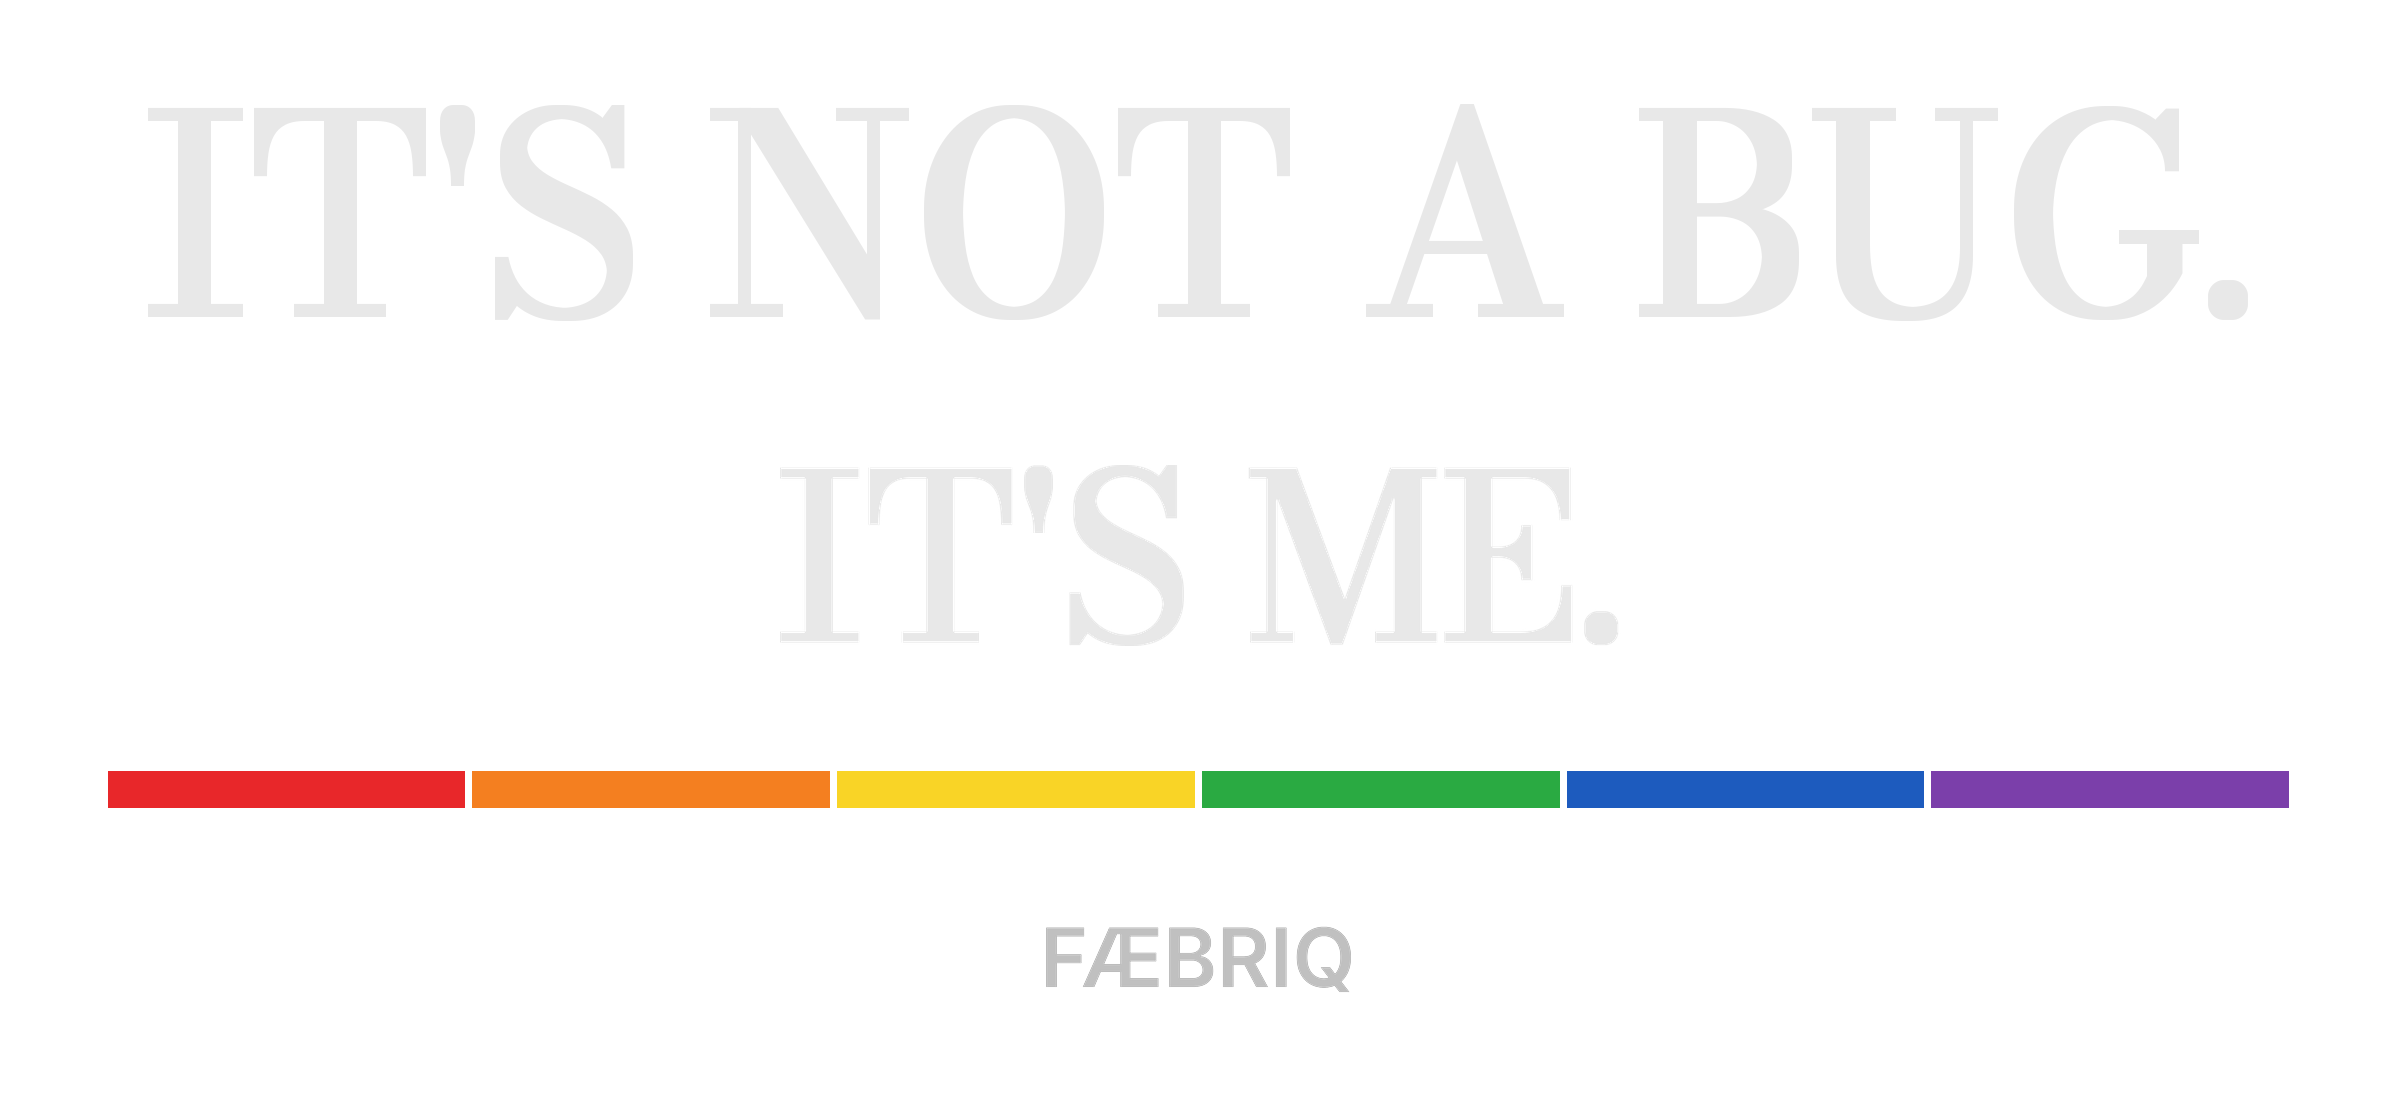
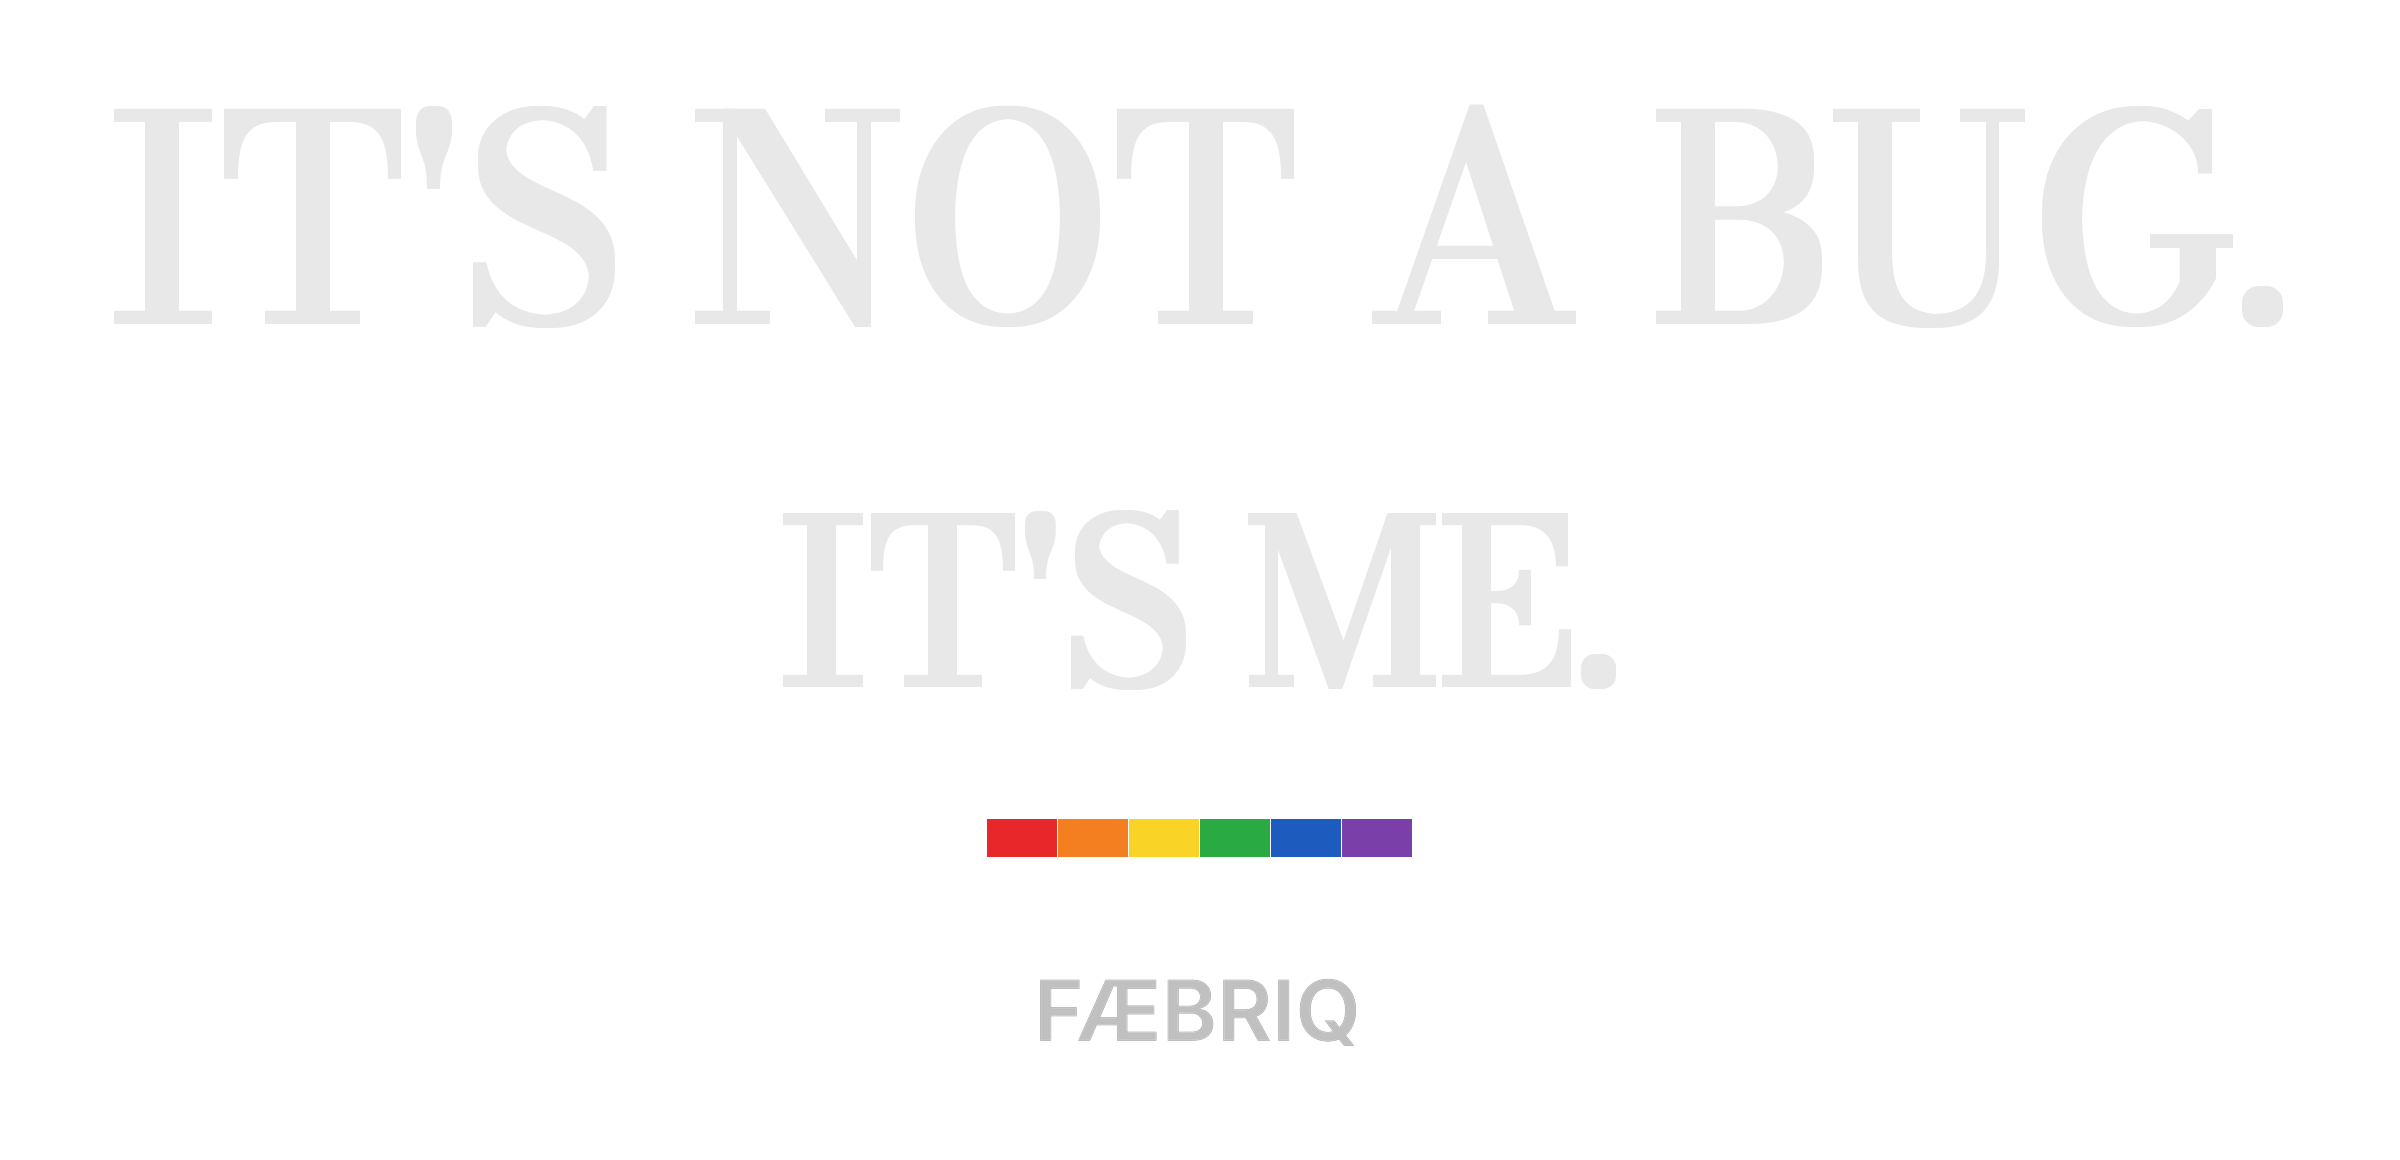
Fix line1/line2 size ratio and bar-to-wordmark ratio in print files (#30)
Claude-Session: https://claude.ai/code/session_01UySxquBWg9zCWn2arkbHkN

Changed region(s): [[0.0312, 0.6757, 0.9688, 0.7371], [0.4375, 0.8293, 0.5625, 0.9214]]

diff --git a/tools/make_print_file.py b/tools/make_print_file.py
@@ -120,22 +120,39 @@ def _draw_reinforced(canvas, cx, y, text, font, fill):
     canvas.alpha_composite(layer, (int(round(cx - w / 2)), int(round(y - pad))))
 
 
-# Gaps between line1->line2 and line2->bar, measured off the approved 404
-# reference ("STRAIGHT NOT" / "FOUND") as a multiple of the PRECEDING line's
-# own fitted font size — not a fixed fraction of canvas width like the old
-# l1_y/l2_y/bar_y constants were. A fixed-fraction gap looks wildly different
-# depending on word count, since _fit shrinks or grows the font to hit a
-# target width: "CODE IT." renders much bigger than "OFF THE CLOCK." at the
-# same width fraction, so the same absolute gap reads as cramped on one and
-# oversized on the other. Scaling the gap by the actual rendered font size
-# keeps the visual rhythm constant across every tagline automatically —
-# derived once from make_print_file.py's own font-fit output, not eyeballed.
+# Gap between line1->line2, measured off the approved 404 reference
+# ("STRAIGHT NOT" / "FOUND") as a multiple of line1's own fitted font size,
+# not a fixed fraction of canvas width like the old l1_y/l2_y constants were.
+# A fixed-fraction gap looks wildly different depending on word count, since
+# _fit shrinks or grows the font to hit a target width. Scaling the gap by
+# the actual rendered font size keeps the visual rhythm constant across every
+# tagline automatically.
 GAP_L1_L2_OF_L1_SIZE = 1.4668
 GAP_L2_BAR_OF_L2_SIZE = 1.3758
 
+# Line hierarchy (Maurice, 2026-09-25): line1 (the statement) sits at 100%,
+# line2 (the footnote/punchline) at 75-85% of line1's rendered size. This
+# replaced the old l2_w width-fit target, which sized line2 by matching a
+# fixed fraction of canvas width: for a short line2 against a long line1
+# ("IT'S NOT A BUG." / "IT'S ME.") that produced almost no visible size
+# difference (line2 landed within a few percent of line1), the opposite of
+# the intended big-statement/small-punchline hierarchy. Sizing line2 as a
+# direct fraction of line1's own fitted size is exact and word-count-proof.
+LINE2_RATIO_DEFAULT = 0.80
+
+# Bar-to-wordmark ratio (Maurice, 2026-09-23 and reconfirmed 2026-09-25): the
+# six-block bar is always 1.35x the width of the FÆBRIQ wordmark it sits with,
+# on stickers and caps, where the wordmark actually prints. This replaces
+# the old bar_w=1.0326 (a fraction of the PHRASE width), which made the bar
+# roughly 7x wider than the tiny signature mark underneath it: visually two
+# unrelated elements, not "a wordmark with its bar". Apparel prints carry no
+# wordmark at all (see module docstring), so they keep the phrase-width bar
+# unchanged, there is nothing for their bar to be 1.35x of.
+BAR_TO_MARK_RATIO = 1.35
+
 
 def build(line1, line2, out, label=None, width=4500, margin_frac=0.045,
-          ink="light", product="apparel", l2_y=None, l2_w=None):
+          ink="light", product="apparel", l2_y=None, l2_ratio=None):
     from PIL import Image, ImageFont
 
     serif = font_path("Bodoni Moda", None, "BodoniModa-Regular.ttf")
@@ -143,21 +160,20 @@ def build(line1, line2, out, label=None, width=4500, margin_frac=0.045,
     col = {k: tuple(int(v.lstrip("#")[i:i + 2], 16) for i in (0, 2, 4)) for k, v in ink_hex.items()}
     wordmark = product == "sticker"
     src = dict(SRC)
-    # l2_w is a width-fit *target*, not a size ratio: fitting line2 to a fixed
-    # fraction of L only shrinks it relative to line1 by roughly
-    # (l2_w/l1_w)*(len(line1)/len(line2)). For phrase pairs where line2 has
-    # much less than half of line1's characters (e.g. "IT'S NOT A BUG." / 15
-    # chars vs "IT'S ME." / 8 — just over half), the default l2_w=0.4710 lands
-    # line2's font size within a few percent of line1's: no visible hierarchy,
-    # even though the tagline is a big-statement/small-punchline pair. --l2-w
-    # overrides the target for that one call; every other design keeps 0.4710.
-    if l2_w is not None:
-        src["l2_w"] = l2_w
+    l2_ratio = LINE2_RATIO_DEFAULT if l2_ratio is None else l2_ratio
 
-    # The bar is the widest element, so it sets the usable width.
-    L = width * (1 - 2 * margin_frac) / src["bar_w"]
+    # Line1 (and, for apparel, the bar right under it) sets the usable width.
+    # Stickers size off line1 too now that the bar no longer follows the
+    # phrase width -- see BAR_TO_MARK_RATIO above.
+    L = width * (1 - 2 * margin_frac) / (src["bar_w"] if not wordmark else src["l1_w"])
     f_l1 = _fit(ImageFont, serif, line1, src["l1_w"] * L, "w")
-    f_l2 = _fit(ImageFont, serif, line2, src["l2_w"] * L, "w")
+    f_l2 = ImageFont.truetype(serif, max(1, round(f_l1.size * l2_ratio)))
+    # A long line2 at the target ratio can render wider than the canvas (e.g.
+    # "I'M REBRANDING MY IDENTITY" at 80% of "PLEASE HOLD"'s size) -- the
+    # ratio is a target, not a licence to run off the print area, so fall
+    # back to width-fit (matching line1's own width target) only when needed.
+    if f_l2.getlength(line2) > src["l1_w"] * L:
+        f_l2 = _fit(ImageFont, serif, line2, src["l1_w"] * L, "w")
     # Label is fitted by cap height, not width, so it stays a consistent size
     # regardless of how long the label text is ("404" vs "ERROR 404").
     f_lab = _fit(ImageFont, serif, label, src["label_h"] * L, "h") if label else None
@@ -171,7 +187,14 @@ def build(line1, line2, out, label=None, width=4500, margin_frac=0.045,
     src["bar_y"] = src["l2_y"] + GAP_L2_BAR_OF_L2_SIZE * f_l2.size / L
     src["mark_y"] = src["bar_y"] + (SRC["mark_y"] - SRC["bar_y"])
 
-    bar_h = src["bar_h"] * src["bar_w"] * L
+    if wordmark:
+        mark_w_px = f_mark.getlength("FÆBRIQ")
+        bar_w = BAR_TO_MARK_RATIO * mark_w_px
+        bar_h = (SRC["bar_h"] * SRC["bar_w"]) * L  # same absolute thinness as the old phrase-width bar
+    else:
+        bar_w = src["bar_w"] * L
+        bar_h = src["bar_h"] * bar_w
+
     content_h = (src["mark_y"] * L + f_mark.getbbox("FÆBRIQ")[3] - f_mark.getbbox("FÆBRIQ")[1]
                  if wordmark else src["bar_y"] * L + bar_h)
     pad = width * margin_frac
@@ -188,12 +211,11 @@ def build(line1, line2, out, label=None, width=4500, margin_frac=0.045,
     line("l1_y", line1, f_l1, col["text"])
     line("l2_y", line2, f_l2, col["text"])
 
-    # pride-circuit bar: thin, near-continuous, marginally wider than the phrase.
-    # A solid rectangle at 300dpi is always far above MIN_STROKE_MM (~5.7mm
-    # tall even at this "thin" spec), so it needs no reinforcement pass.
+    # pride-circuit bar. A solid rectangle at 300dpi is always far above
+    # MIN_STROKE_MM (~5.7mm tall even at this "thin" spec), so it needs no
+    # reinforcement pass.
     from PIL import ImageDraw
     d = ImageDraw.Draw(im)
-    bar_w = src["bar_w"] * L
     sw, gap = src["stripe_frac"] * bar_w, src["gap_frac"] * bar_w
     bx, by = cx - bar_w / 2, top + src["bar_y"] * L
     for i, c in enumerate(CIRCUIT):
@@ -224,13 +246,12 @@ if __name__ == "__main__":
                         "By default this is computed automatically from line-1's rendered "
                         "font size so spacing self-adjusts per tagline — only pass this to "
                         "force a specific position.")
-    p.add_argument("--l2-w", type=float, default=None,
-                   help="manual override for line-2's width-fit target (fraction of L, "
-                        "default 0.4710). The resulting size ratio also depends on "
-                        "len(line1)/len(line2), so lower this when line2 has much less "
-                        "than half of line1's character count and the default produces "
-                        "little or no visible size difference.")
+    p.add_argument("--l2-ratio", type=float, default=None,
+                   help="manual override for line-2's size as a fraction of line-1's "
+                        "rendered size (default 0.80, i.e. within the 75-85%% house "
+                        "range). Exact and word-count-proof, unlike the old width-fit "
+                        "approach it replaced.")
     a = p.parse_args()
     w, h = build(a.line1, a.line2, a.out, label=a.label, width=a.width,
-                 ink=a.ink, product=a.product, l2_y=a.l2_y, l2_w=a.l2_w)
+                 ink=a.ink, product=a.product, l2_y=a.l2_y, l2_ratio=a.l2_ratio)
     print(f"wrote {a.out}  {w}x{h}  RGBA 300dpi  ink={a.ink}  product={a.product}")

diff --git a/tools/make_404_v3.py b/tools/make_404_v3.py
@@ -13,12 +13,20 @@ def build(out,width,sticker):
     y1=pad; y2=y1+h1+R['gap1']*B; yb=y2+h2+R['gap2']*B; bh=R['bar_h']*B
     fm=None; bottom=yb+bh
     if sticker:
-        fm=m._fit(ImageFont,serif,"FÆBRIQ",R['mark_w']*B,'w'); hm=fm.getbbox("FÆBRIQ"); hm=hm[3]-hm[1]
+        fm=m._fit(ImageFont,serif,"FÆBRIQ",R['mark_w']*B,'w')
+        hm=fm.getbbox("FÆBRIQ"); hm=hm[3]-hm[1]
         ym=yb+bh+R['gap_mark']*B; bottom=ym+hm
     im=Image.new('RGBA',(width,int(round(bottom+pad))),(0,0,0,0)); cx=width/2
     m._draw_reinforced(im,cx,y1,"404",f1,col['text']); m._draw_reinforced(im,cx,y2,"STRAIGHT NOT FOUND",f2,col['text'])
-    d=ImageDraw.Draw(im); sw=m.SRC['stripe_frac']*B; gap=m.SRC['gap_frac']*B
-    for i,c in enumerate(m.CIRCUIT): x0=pad+i*(sw+gap); d.rectangle([x0,yb,x0+sw,yb+bh],fill=c)
+    d=ImageDraw.Draw(im)
+    # Bar-to-wordmark ratio (Maurice, 2026-09-25): on the sticker, the bar is
+    # 1.35x the FÆBRIQ mark's own width, not tied to the full canvas width B.
+    # The apparel file (sticker=False) has no mark, so it keeps the old
+    # full-width bar -- nothing for it to be 1.35x of.
+    bar_w = m.BAR_TO_MARK_RATIO * fm.getlength("FÆBRIQ") if sticker else B
+    sw, gap = m.SRC['stripe_frac']*bar_w, m.SRC['gap_frac']*bar_w
+    bx = cx - bar_w/2
+    for i,c in enumerate(m.CIRCUIT): x0=bx+i*(sw+gap); d.rectangle([x0,yb,x0+sw,yb+bh],fill=c)
     if sticker: m._draw_reinforced(im,cx,ym,"FÆBRIQ",fm,col['mark'])
     im.save(out,'PNG',dpi=(300,300)); print(out,im.size)
 build('assets/print-art/404-straight-not-found-v3-light-4500.png',4500,False)

diff --git a/IMAGERY_SPEC_2026-09-23.md b/IMAGERY_SPEC_2026-09-23.md
@@ -7,9 +7,10 @@ Decisions by Maurice. Decision board: https://claude.ai/artifact/9zSaBXjVRRWu1AV
 - **Hero:** a clean studio product shot, with the print readable at thumbnail size (about 170px wide).
 - **Gallery:** exactly 4 shots per product, in the slot order below.
 - **Ground:** the brand's near-black (#0f0e0c family). Dark studio surfaces, dark scenes.
-- **Lockup:** serif caps (Instrument Serif), line 2 smaller than line 1, a flat six-block rainbow stripe underneath. Source: the current masters in `assets/print-art/*-light-4500.png`, which match the "75% (current)" variant.
-- **Stickers:** FÆBRIQ small, centered under the stripe. Required on every sticker. All 5 files in `assets/print-art/sticker-final-system-2026-08-27/` already have it (checked 2026/09/23).
-- **Wordmark (set 2026/09/23):** the sans FÆBRIQ, middle version in `assets/print-art/reference/wordmark-reference-2026-09-23.jpg`, over a six-block bar with no gaps at 1.35x the wordmark width. Wordmark only: phrase lockups keep their serif.
+- **Lockup:** serif caps (Bodoni Moda, per `tools/make_print_file.py`; "Instrument Serif" in an earlier draft of this line was wrong), line 1 (the statement) at 100%, line 2 (the footnote) at 75-85% of line 1's size (80% default, set 2026/09/25, `LINE2_RATIO_DEFAULT` in `tools/make_print_file.py`), a flat six-block rainbow stripe underneath. Source: the current masters in `assets/print-art/*-light-4500.png`.
+- **Stickers:** FÆBRIQ small, centered under the stripe. Required on every sticker. All 6 files in `assets/print-art/sticker-final-system-2026-08-27/` have it (checked 2026/09/25), except the retired `error-404-straight-not-found-sticker-light-2400.png`.
+- **Wordmark (set 2026/09/23):** the sans FÆBRIQ, middle version in `assets/print-art/reference/wordmark-reference-2026-09-23.jpg`. Wordmark only: phrase lockups keep their serif.
+- **Bar-to-wordmark ratio (set 2026/09/23, reconfirmed 2026/09/25):** wherever the wordmark actually prints (stickers, cap, the standalone logo lockup), its bar is 1.35x the wordmark's own width, no gaps, `BAR_TO_MARK_RATIO` in `tools/make_print_file.py`. Apparel prints carry no wordmark, so their bar stays tied to the phrase width, nothing to be 1.35x of.
 - **Brand spelling:** FÆBRIQ, with the Æ ligature, every time. The old repo mockups (`assets/mockup-*.png`, `FAEBRIQ_*_Mockup*.png`, `model-*-new.png`, `model-flatlay-new.png`) show a garbled wordmark, the circuit logo on slogan products, or an off-brand font. Never use them as a reference or as a product image.
 - **404 design (canonical, set 2026/09/23):** a big "404" on top, "STRAIGHT NOT FOUND" on one line underneath, then the flat stripe (plus FÆBRIQ on stickers). Reference: `assets/print-art/reference/404-canonical-reference-2026-09-23.webp`. Print files: `assets/print-art/404-straight-not-found-v3-light-4500.png` (apparel, tote) and `assets/print-art/sticker-final-system-2026-08-27/404-straight-not-found-v3-sticker-light-2400.png` (sticker), made with `tools/make_404_v3.py`. The "ERROR 404 / STRAIGHT NOT / FOUND" files are retired.
 - **Never:** embroidery claims, em or en dashes, the condensed bold sans (seen in `model-tee-new.png` and `model-flatlay-new.png`), or the old "big 404 + italic line" design.

diff --git a/CHANGELOG.md b/CHANGELOG.md
@@ -108,3 +108,6 @@ Why: matches the 2026-09-23 wordmark decision, so future sessions do not follow 
 
 2026-09-24 Swapped the serif FAEBRIQ signature mark for the approved sans wordmark on all 6 sticker print files (phrase lines and bar untouched, hand-tuned pixel positions preserved) and fully rebuilt the two cap wordmark files at print resolution (3000px, was 500x200 placeholder scale) via new tools/swap_print_wordmark.py.
 Why: match the 2026-09-23 wordmark decision; cap files also carried no real print resolution before.
+
+2026-09-25 Fixed two print-lockup rules per Maurice: line1 is 100%, line2 is 75-85% of line1 (LINE2_RATIO_DEFAULT=0.80, replaces the old width-fit l2_w mechanism which sometimes gave near-zero size difference); the bar next to a printed wordmark is 1.35x that wordmark width (BAR_TO_MARK_RATIO), not the old ~7x phrase-width bar. Regenerated the 5 live stickers and the 404 v3 print files in tools/make_print_file.py and tools/make_404_v3.py, re-swapped the sans mark, corrected CLAUDE.md (product prints use Bodoni Moda, not Instrument Serif) and IMAGERY_SPEC.
+Why: Maurice flagged the shipped stickers as wrong on both counts.

diff --git a/CLAUDE.md b/CLAUDE.md
@@ -21,7 +21,11 @@ requests unless explicitly asked. When the assigned task is done, stop.
 - Brand: queer-coded dark-tech merch. Voice: dry, deadpan, terminal wit.
   Sans FÆBRIQ wordmark (reference: assets/print-art/reference/wordmark-reference-2026-09-23.jpg)
   with a six-block bar at 1.35x its width, on near-black (#0f0e0c bg / #e0e0e0 text).
-  Phrase lockups (product prints) keep Instrument Serif.
+  Phrase lockups (product prints) keep Bodoni Moda (corrected 2026-09-25;
+  an earlier version of this line wrongly said Instrument Serif). Line 1
+  is 100% size, line 2 is 75-85% of line 1. Bar is 1.35x the wordmark's
+  width wherever the wordmark prints (stickers, cap, standalone logo);
+  apparel has no wordmark, so its bar stays tied to the phrase width.
   One pride-circuit accent per product.
 - Dry/deadpan = delivery style, NOT low-energy, monotone, or flat. Any
   marketing copy, avatar/video persona, or promotional content still needs
